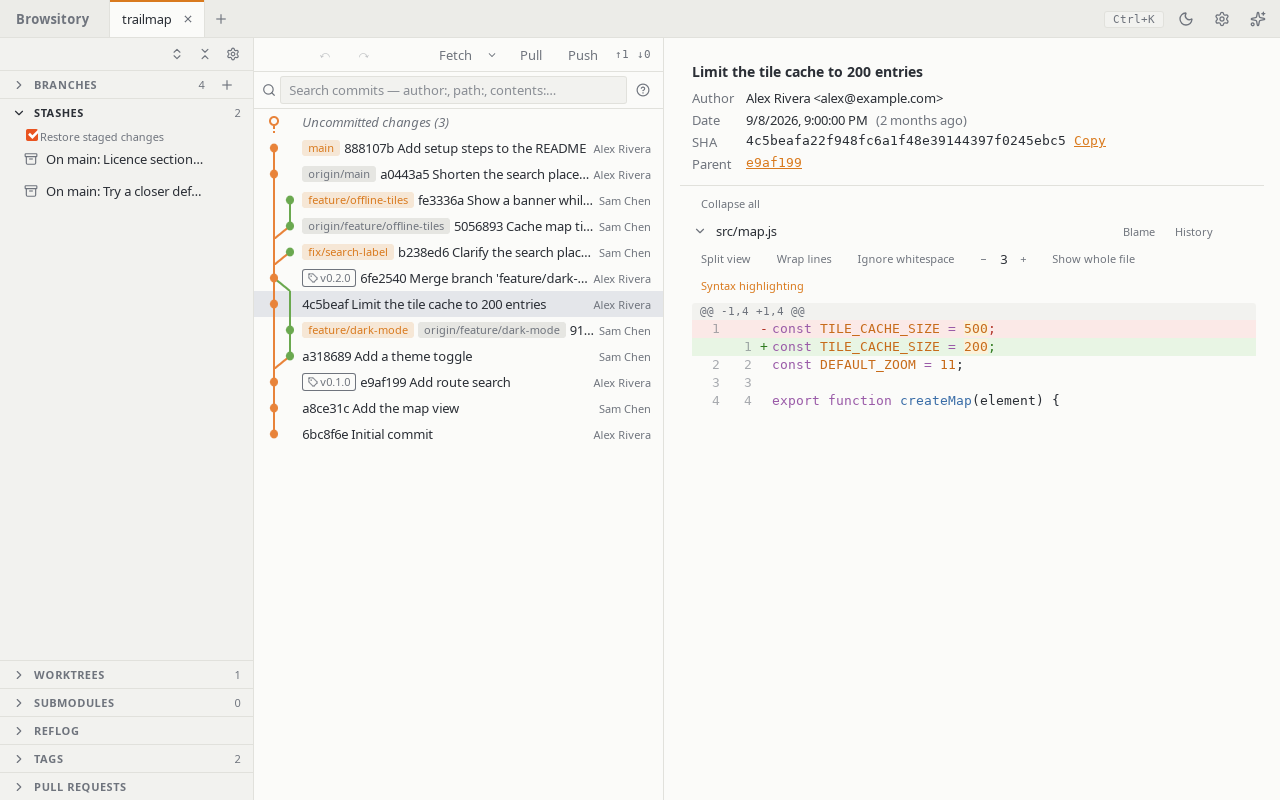
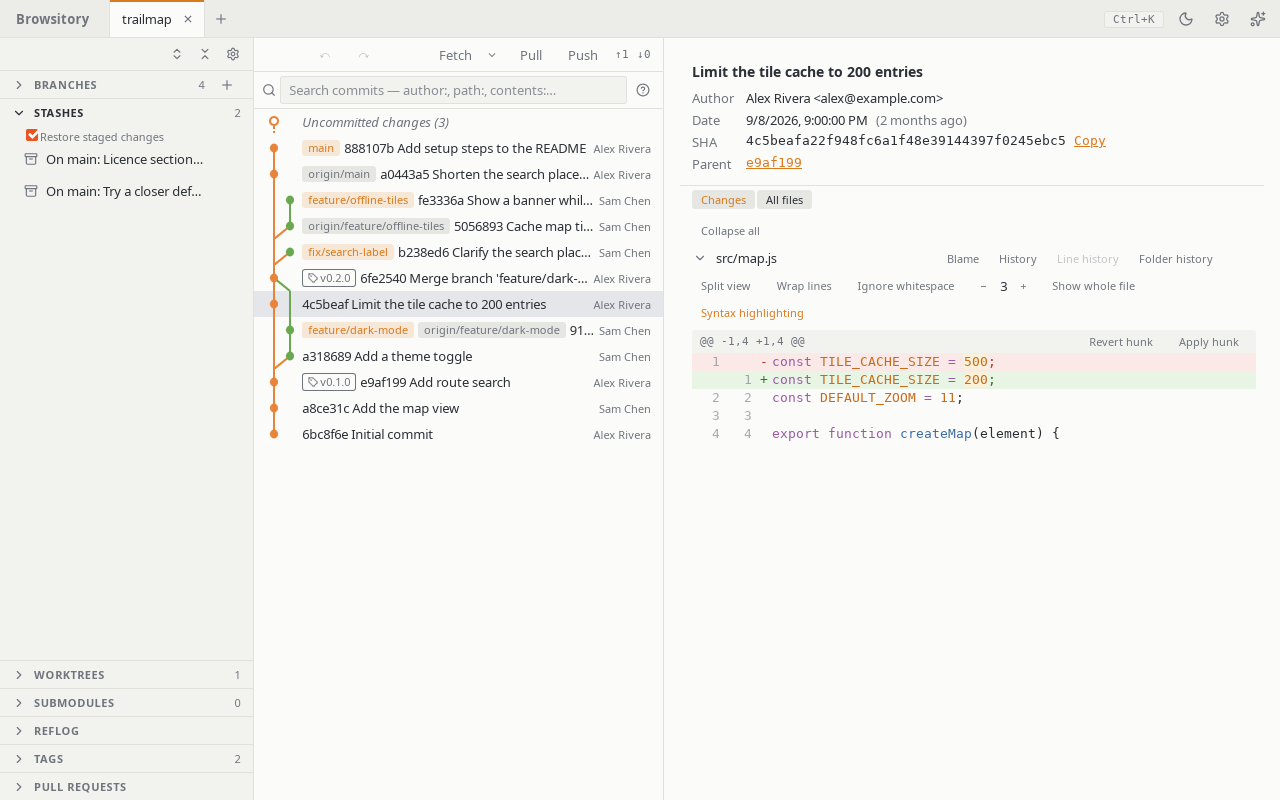
Release 0.6.0: fold changelog (#577)
* Release 0.6.0: fold changelog

Fold the 20 changelog fragments into CHANGELOG.md as ## [0.6.0] - 2026-11-10 with an empty
## [Unreleased] above, and edit the section for readers: a short intro, the new features first
(patches and partial reverts, line and folder history, files at a commit, multi-select, search
operators, diff algorithm), then fixes grouped by topic. The two background-fetch sections
(#462, #567) and the four case-pair sections (#403, #511, #522, #532) become one each, the
latter with a short intro; the action-availability fixes (#495, #503, #508, #514) share one
section; the E2E helper section (#500) becomes "Internal: tests and CI" with a line for the
mutants PR comment (#548), which shipped without a fragment.

Guide: the update check's retry after a failure (#477) in main-window.md, a troubleshooting
entry for files whose names differ only in case, and Files at a commit in the guide's index.

Versions need no bump: release.yml stamps them from the tag.

* Release 0.6.0: refresh guide screenshots

All nine shots show 0.6.0's UI: Folder history and Line history in file headers, Changes/All
files in a commit's details, Revert hunk and Apply hunk, Save as patch in the Staged heading.

---------

diff --git a/CHANGELOG.md b/CHANGELOG.md
@@ -6,6 +6,197 @@ The format follows [Keep a Changelog](https://keepachangelog.com/en/1.1.0/).
 
 ## [Unreleased]
 
+## [0.6.0] - 2026-11-10
+
+Revert or apply a single file or hunk of a commit and save and apply patches, the history of a
+range of lines or a folder, a commit's whole file tree, several changed files selected at once,
+`or`, `not` and parentheses in commit search, a choice of diff algorithm, steadier background
+fetching and updates, and files whose names differ only in case kept intact on Linux.
+
+### Patches and partial reverts
+
+- Added: a commit's file menu has **Revert this file**, **Apply this file to the working tree**
+  and **Save file as patch…**; each hunk of a commit's diff has **Revert hunk** and **Apply
+  hunk**. The result lands as unstaged changes, never as a commit; a change that no longer
+  applies leaves the working tree unchanged, like a failed `git apply`, and every revert or
+  apply can be undone (#448).
+- Added: **Save as patch…** for a commit, for several selected commits (`git format-patch`
+  mails, oldest first) and for the staged changes, and **Apply patch…** in the command palette,
+  which applies a patch file to the working tree, all of it or nothing (#448).
+
+### History of lines and folders
+
+- Added: select lines in a commit's diff, its Blame view, a comparison or a file under All files
+  and click **History of lines N–M** to list the commits that changed them, following the lines
+  back through earlier edits and renames like `git log -L` (#447).
+- Added: the `line:PATH:FROM-TO` search key finds the same commits and combines with other
+  terms (#447).
+- Added: **Folder history** in a file's header, and on each folder under All files, searches
+  for the commits that changed anything in that folder (#447).
+
+### Files at a commit
+
+- Added: a commit's details switch between **Changes** and **All files**. All files browses the
+  commit's whole tree (folders load as you open them, a filter searches every path) and shows a
+  file's content at that commit read-only, with syntax highlighting; images are shown, binary
+  and large files get a notice. A file's actions open its history, compare it with the working
+  tree, save a copy elsewhere, or restore it to the working tree, one undo step (#446).
+
+### Selecting several changed files
+
+- Added: the Changes and Staged lists select several files: Ctrl/Cmd+click adds or removes one,
+  Shift+click and Shift+↑/↓ select a range, Ctrl/Cmd+A the whole list, Esc keeps only the
+  current file. With two or more selected, a bar above the list, a selected file's menu, `s` and
+  the command palette stage, unstage, discard (one confirmation, one undo step), ignore or stash
+  them together; conflicted files are left out. The lists are announced as multi-selectable and
+  screen readers hear how many files are selected (#449).
+
+### Search: or, not, parentheses and merge filters
+
+- Added: commit search understands `or`, `not` (or a leading `-`) and parentheses between terms;
+  terms side by side still all have to match (#450).
+- Added: `merges:only` and `merges:none` list only merge commits or leave them out (#450).
+- Changed: a search that can't be read shows why under the search field, which is marked
+  invalid, instead of in place of the results (#450).
+- Internal: a new `InvalidSearchQuery` error kind tells an invalid query apart from other
+  search failures (#450).
+
+### Diff
+
+- Added: **Preferences → Diff → Diff algorithm** chooses Default (Myers), Patience or Minimal
+  for every diff. Staging, unstaging and discarding hunks or lines, and reverting or applying a
+  commit's hunk, find the hunk with the algorithm the diff was shown with, so they act on the
+  lines you see (#469).
+- Added: **Toggle wrap lines** and **Toggle show whole file** in the command palette act on the
+  current diff (#469).
+
+### One-click history edits
+
+- Fixed: the Undo entry of Reword, Squash, Fixup, Move up, Move down and Drop from the commit
+  menu read "Rebase onto <id>"; it now names the edit, for example "Drop 1a2b3c4" or "Squash
+  1a2b3c4 into its parent", also after a paused edit is continued (#473).
+
+### Fetch automatically
+
+- Fixed: a background fetch to a server that doesn't answer (VPN down, captive portal, server
+  offline) no longer delays the action you start until the connection times out; the action
+  runs at once, and a remote that doesn't answer within 30 seconds is given up on for that fetch
+  while the other remotes are still fetched (#462).
+- Changed: a remote that couldn't be reached is fetched in the background less often, at twice
+  the interval, then four times, up to once an hour, until a fetch gets through again (#462).
+- Fixed: a background fetch that was due while another fetch, pull or push ran could be skipped
+  until the next interval, when it started the moment that operation finished: the finished
+  operation still counted as running for a moment after it reported its end. This also made a
+  repo-service test fail now and then on Windows (#567).
+
+### Updates
+
+- Fixed: when an update check or download failed (for example while the release download host
+  answered with an error), the app waited 6 hours before checking again. It now retries after
+  10 minutes, doubling the wait up to 3 hours, and goes back to the 6-hour interval once a check
+  succeeds (#477).
+- Added: a second update endpoint. The app reads the update manifest from the user guide site
+  when the release download URL fails; the docs workflow publishes there a checked copy of the
+  latest published release's manifest (#477).
+
+### Files that differ only in case
+
+On Linux with `core.ignorecase` on, the operations that could lose one of two files whose names
+differ only in case (`A` and `a`) now refuse before anything is written and name both files, and
+aborting no longer gets stuck on such a pair.
+
+- Fixed: with two committed files whose names differ only in case, Reset (hard) and aborting a
+  rebase kept only one of them in the index and could delete the other's file, and discarding
+  one of them left a broken index. Hard reset, starting a rebase, discarding one of the pair and
+  the other operations that overwrite files with it now refuse; Undo writes such files directly
+  and keeps both (#403).
+- Fixed: a rebase whose picked commit added a file whose name differs only in case from an
+  existing one couldn't be aborted: Abort refused with the case-pair message. Aborting a
+  cherry-pick or revert in that state refused, saying it would discard a change. Abort now
+  always restores the branch, writing such files directly, and keeps a file you wrote there
+  yourself (#511).
+- Fixed: a rebase step, cherry-pick, revert, merge, pull or stash apply that added a file whose
+  name differs only in case from an existing one silently kept only one of the two in the
+  commit and the index. It is now refused; a rebase or a cherry-pick of several commits stops
+  at that step and can be aborted. Aborting a cherry-pick of several commits after such a step
+  had landed outside Browsitory now goes back to where it started (#522).
+- Fixed: switching to a branch, creating a branch from one, checking out a commit, tag or remote
+  branch, or adding a worktree, whose files include such a pair that the current commit
+  doesn't, kept only one of the two in the index and didn't write the other's file, so the next
+  commit dropped it. It is now refused (#532).
+
+### Actions that can't run now
+
+- Fixed: while a rebase or `git am` started in a terminal was paused between steps, the command
+  palette still offered Cherry-pick, Revert, Checkout, Reset, switching branches and other
+  repository actions that the menus disable (#503).
+- Fixed: the command palette offered **Stash all changes** and **Stash…**, and a file's menu
+  offered **Stash file…**, during a rebase or a cherry-pick/revert, when the Stash button is
+  disabled because stashing then loses the paused step's changes (#495).
+- Fixed: the Reset dialog, the parent picker of a merge commit's Cherry-pick and Revert, the
+  Merge dialog, **Push branch to…**, **Delete remote branch…** and the force push confirmation
+  still ran their operation when the repository became busy while they were open (for example a
+  rebase started in a terminal, picked up by a refresh); their confirm button is now disabled
+  with the reason (#514).
+- Fixed: the Stash dialog still stashed when a rebase or a cherry-pick/revert sequence started
+  while it was open (for example in a terminal); its Stash button is now disabled with the
+  reason (#508).
+- Changed: **Create tag at …** stays in the command palette while another operation runs, like
+  the commit menu's **Create tag…**; the dialog says why it can't create the tag yet (#495).
+- Changed: disabled commit menu items say why they are disabled (#495).
+- Internal: menus, buttons and the command palette decide availability with one shared rule
+  (`operationBlockers`, `stashBlockReason`, `commitActions`) (#495).
+
+### Command palette commit actions
+
+- Fixed: Cherry-pick and Revert from the command palette showed no "Cherry-picked" or "Reverted"
+  toast, unlike the commit menu; they now run the menu's own action (#507).
+- Fixed: the command palette's **Reset to …** and a merge commit's Cherry-pick and Revert did
+  nothing while search results or a file's history replaced the graph; they now open the reset
+  dialog or the parent picker directly (#507).
+- Changed: the command palette offers Cherry-pick and Revert for a merge commit too; they ask
+  which parent to use first, like the commit menu (#495, #507).
+
+### Error messages
+
+- Fixed: a pull you cancel says "Pull cancelled." again, not "the transfer was cancelled"
+  (#496).
+- Fixed: when a repository's worker has stopped, starting a fetch, push or pull says to close
+  and reopen the repository, as every other action does, instead of "worker thread stopped"
+  (#496).
+- Fixed: in the VSCode extension, the errors of a pull, a fetch or push that can't start, an
+  unreadable conflict and the repository and workspace pickers no longer start with "Error: "
+  (#496).
+- Internal: a failed request now answers `{ kind, message }` (`repo_service::wire::ErrorDto`,
+  generated to TypeScript) on both transports: the Tauri command's error, and the sidecar's
+  JSON-RPC error `data`. `RepoClient` methods reject with `RepoError`, and the frontend switches
+  on its `kind` instead of searching the message text. Removed the checks that matched no
+  backend text: a direct fetch's "Fetch failed" rejection (gone since fetches report failures
+  only through their terminal event), the "Transport failed", "failed to read working diff" and
+  "permission denied" hints, and the "missing credential" and "SSH agent failure" rejections
+  (#496).
+
+### Internal: worker command policy
+
+- Changed: each worker command's policy (the undo entry it records, whether it takes the state
+  lock, is refused while that lock stays busy, has its reply held until its undo entry is
+  recorded, is refused while a rebase or cherry-pick/revert sequence is stored, and aborts a
+  paused operation) is stated in one place, `worker::policy::of`, which names every command, so
+  a new command no longer compiles without one. A table test pins every command's policy.
+  Behaviour is unchanged (#485).
+
+### Internal: tests and CI
+
+- Changed: the Tauri E2E specs run the git CLI through one helper, `e2e/support/git.ts`
+  (`git`, `gitIn`, `gitWith`), instead of 13 local helpers and about 170 direct calls (#500).
+- Changed: `wdio.conf.ts` sets a 10 s `waitforTimeout` (`UI_TIMEOUT` in
+  `e2e/support/timeouts.ts`); waits no longer repeat it, and longer ones use named constants
+  (#500).
+- Changed: `waitForAppReady` and the retrying `openPalette` live in `e2e/support/app.ts`, and
+  both E2E suites create their fixture repository with one shared `initFixtureRepo` (#500).
+- Changed: CI's mutation-testing job posts its findings as one pull request comment, updated on
+  re-runs, instead of only in the job summary (#548).
+
 ## [0.5.0] - 2026-11-09
 
 Tags at any commit and on remotes, go-to pickers, one-click history edits from the commit menu,

diff --git a/docs/guide/troubleshooting.md b/docs/guide/troubleshooting.md
@@ -31,3 +31,13 @@ stash still works. The error names the setting, for example "Can't read core.ign
 the Git config: failed to parse 'maybe' as a boolean." Set it to true or false, or remove it
 (`git config --unset core.ignorecase`),
 then try again.
+
+## Files whose names differ only in case
+
+On Linux, with `core.ignorecase` on, Git keeps only one of two files whose names differ only in
+case, such as `A` and `a`. Browsitory therefore refuses, before it changes anything, the actions
+that would lose one of them: switching to a branch or checking out a commit, tag or remote branch
+that has such a pair the current commit doesn't, adding such a worktree, a merge, pull, rebase
+step, cherry-pick, revert or stash apply that brings one in, a hard reset, starting a rebase and
+discarding one file of the pair. The error names both files. Rename one of them in a commit, then
+try again. Aborting a rebase, cherry-pick or revert always works, even with such a pair.

diff --git a/docs/guide/main-window.md b/docs/guide/main-window.md
@@ -33,7 +33,9 @@ the right:
   **User guide** opens this guide in your browser.
 
 **Updates (desktop app).** Browsitory checks for a new version when it starts and every six
-hours, and downloads it in the background. When it is ready, a banner says "Update v… ready".
+hours, and downloads it in the background. If a check or download fails (for example while the
+download server is down), it tries again after 10 minutes, then waits twice as long each time, up
+to 3 hours, until a check succeeds. When it is ready, a banner says "Update v… ready".
 Click **Restart to update** to install it, or keep working: nothing changes until you restart.
 The VSCode extension updates through VSCode instead.
 

diff --git a/docs/guide/README.md b/docs/guide/README.md
@@ -27,6 +27,7 @@ it. Open several repositories as tabs, and save groups of them as workspaces.
 - [Resolving conflicts](conflicts.md)
 - [History and diffs](history.md)
 - [File history](file-history.md)
+- [Files at a commit](files-at-a-commit.md)
 - [Searching commits](search.md)
 - [Comparing commits and branches](compare.md)
 - [Patches and partial reverts](patches.md)
